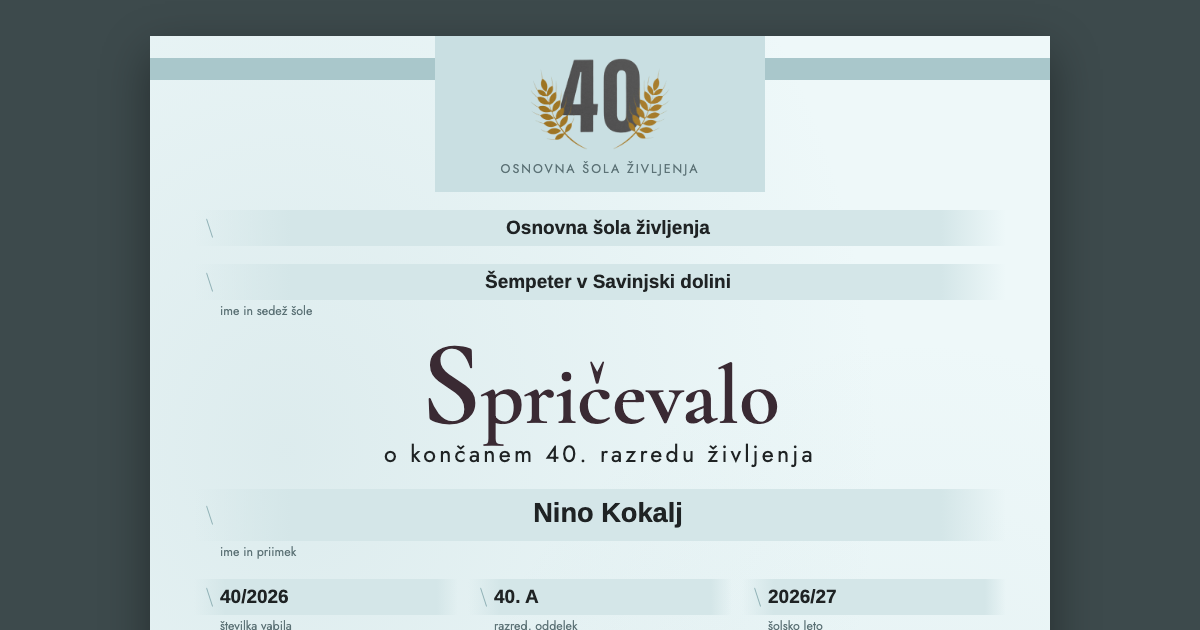
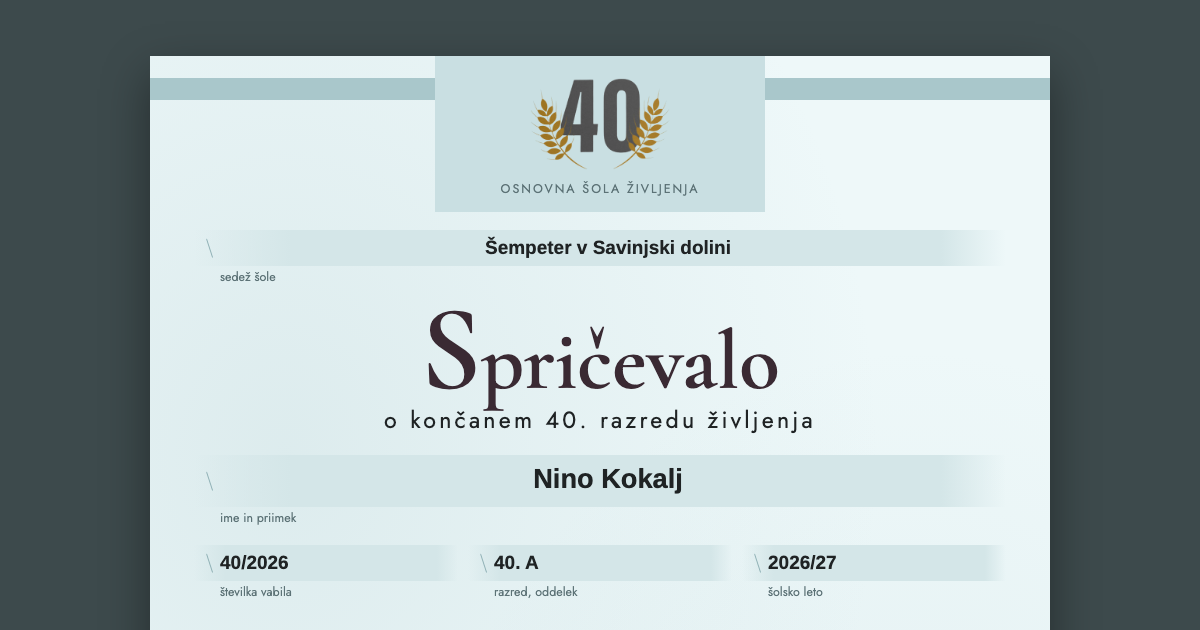
Spričevalo: odstranjeno podvojeno ime šole, osvežena predogledna slika

diff --git a/index.html b/index.html
@@ -205,8 +205,7 @@ label.opt:has(input:checked) { border-color: var(--title); background: var(--ban
     </div>
 
     <div class="body">
-      <div class="f center"><div class="v">Osnovna šola življenja</div></div>
-      <div class="f center"><div class="v">Šempeter v Savinjski dolini</div><div class="l">ime in sedež šole</div></div>
+      <div class="f center"><div class="v">Šempeter v Savinjski dolini</div><div class="l">sedež šole</div></div>
 
       <div>
         <h1><span class="cap">S</span>pričevalo</h1>
